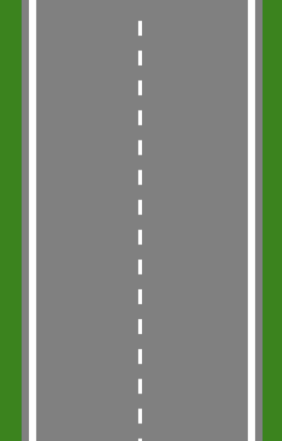
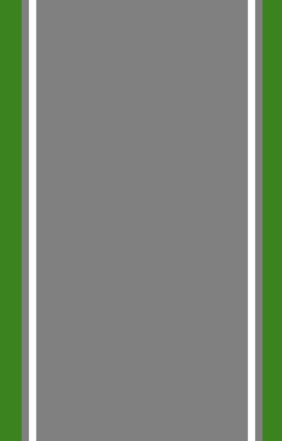
final working version

diff --git a/js/index.js b/js/index.js
@@ -1,6 +1,8 @@
 const canvas = document.getElementById("canvas");
 const ctx = canvas.getContext("2d");
 
+// ctx.fillRect(0,0,canvas.width ,canvas.height)
+  // ctx.fillStyle = "#808080"
 window.onload = () => {
   document.getElementById("start-button").onclick = function () {
     startGame();
@@ -25,6 +27,8 @@ window.onload = () => {
       this.y = 565;
       this.w = 158 / 3.5;
       this.h = 319 / 3.5;
+      this.reverseX = false;
+      this.reverseY = false
     }
 
     move(direction) {
@@ -43,9 +47,9 @@ window.onload = () => {
 
   class Item {
     constructor(x, y, color) {
-      this.x = Math.floor(Math.random() * (500 - 50 + 1) + 50);
+      this.x = Math.floor(Math.random() * (300 - 50 + 1) + 50);
       this.y = 0;
-      this.w = Math.floor(Math.random() * (500 - 50 + 1) + 50);
+      this.w = Math.floor(Math.random() * (200 - 100 + 1) + 100);
       this.h = 30;
       this.color = color;
       (this.reverseX = false), (this.reverseY = false);
@@ -67,32 +71,49 @@ window.onload = () => {
   let engine;
   let didCollide;
 
-  // class Speed {
-  //   constructor(){
-  //   this.x = 242,
-  //   this.y = 0,
-  //   this.w = 8,
-  //   this.h = 24,
-  //   this.reverseX = false,
-  //   this.reverseY = false
-  // }
-  // }
-  // const speed1 = new Speed()
-  // const speedArr = []
-  // speedArr.push(speed1)
-  // function createSpeed() {
-  //   speedArr.push(new Speed());
-  //   }
+  class Speed {
+    constructor() {
+      (this.x = 244),
+        (this.y = 0),
+        (this.w = 8),
+        (this.h = 32),
+        (this.reverseX = false),
+        (this.reverseY = false);
+    }
+    move() {
+      this.y = this.y + 1;
+    }
+  }
+  const speed1 = new Speed();
+  const speedArr = [];
+  speedArr.push(speed1);
+  function createSpeed() {
+    speedArr.push(new Speed());
+  }
 
-  // function scoreCounter() {
-  //   for (let i = 10; i < Infinity; i++) {
-  //     console.log(i)
-  //      }
-  // }
+  let score = 0 
+  function scoreCounter() {
+    score += 10
+    ctx.font = '24px serif'
+    ctx.fillStyle = "white"
+    ctx.fillText(`Your Score:${score}`,75,50)
+  }
+  scoreCounter();
+ ;
+
+  
+  function draw() {
+    var ctx = document.getElementById('canvas').getContext('2d');
+    ctx.font = '48px serif';
+    ctx.fillStyle = "white"
+    ctx.fillText('Game Over',150, 350);
+      }
+let scoreInterval;
 
   function startGame() {
-    setInterval(createObj, 1000);
-    setInterval(scoreCounter, 2000);
+    setInterval(createObj, 2750);
+    setInterval(createSpeed, 275);
+    scoreInterval = setInterval(scoreCounter, 2000) 
     document.addEventListener("keydown", function (e) {
       switch (e.code) {
         case "ArrowLeft":
@@ -104,12 +125,32 @@ window.onload = () => {
       }
     });
     animate();
-    scoreCounter();
   }
 
   function animate() {
     engine = window.requestAnimationFrame(animate);
     ctx.clearRect(0, 0, canvas.width, canvas.height);
+    ctx.fillStyle = "#008900"
+    ctx.fillRect(0,0,canvas.width ,canvas.height)
+    ctx.fillStyle = "#808080"
+    ctx.fillRect(50,0,canvas.width-100 ,canvas.height)
+    ctx.clearRect(65,0,15,canvas.height)
+    ctx.clearRect(420,0,15,canvas.height)
+    ctx.fillStyle = "black"
+    ctx.fillText(`Your Score:${score}`,80,50)
+    
+    if(raceCar.w+158 / 3.5>= canvas.width){
+      raceCar.reverseX = true
+        } else if(raceCar.w<=0){
+          raceCar.reverseX = false
+        }
+
+    for (let i = 0; i < speedArr.length; i++) {
+      ctx.fillStyle = "white";
+      speedArr[i].move();
+      ctx.fillRect(speedArr[i].x, speedArr[i].y, speedArr[i].w, speedArr[i].h);
+    }
+
     ctx.drawImage(img, raceCar.x, raceCar.y, raceCar.w, raceCar.h);
 
     for (let i = 0; i < obstacleArr.length; i++) {
@@ -125,6 +166,7 @@ window.onload = () => {
 
     for (let i = 0; i < obstacleArr.length; i++) {
       ctx.fillStyle = obstacleArr[i].color;
+      obstacleArr[i].move();
       ctx.fillRect(
         obstacleArr[i].x,
         obstacleArr[i].y,
@@ -146,6 +188,14 @@ window.onload = () => {
     function gameOver() {
       window.cancelAnimationFrame(engine);
       ctx.clearRect(0, 0, canvas.width, canvas.height);
+      ctx.fillStyle = "black"
+      ctx.fillRect(0,0,canvas.width ,canvas.height)
+      ctx.fillStyle = "red"
+      ctx.font = 'bold 48px serif';
+      ctx.fillText('Game Over',145, 325)
+      ctx.fillStyle = "white"
+      ctx.fillText(`Final Score:${score}`,120,375)
+      clearInterval(scoreInterval)
     }
   }
 };

diff --git a/styles/style.css b/styles/style.css
@@ -37,11 +37,11 @@ body button {
   padding: 20px 0px;
 }
 
-#canvas {
+/* #canvas {
   border: 1px solid black;
 
   background-image: url(/images/road.png);
   background-repeat: no-repeat;
 
   background-size: cover;
-}
+} */
